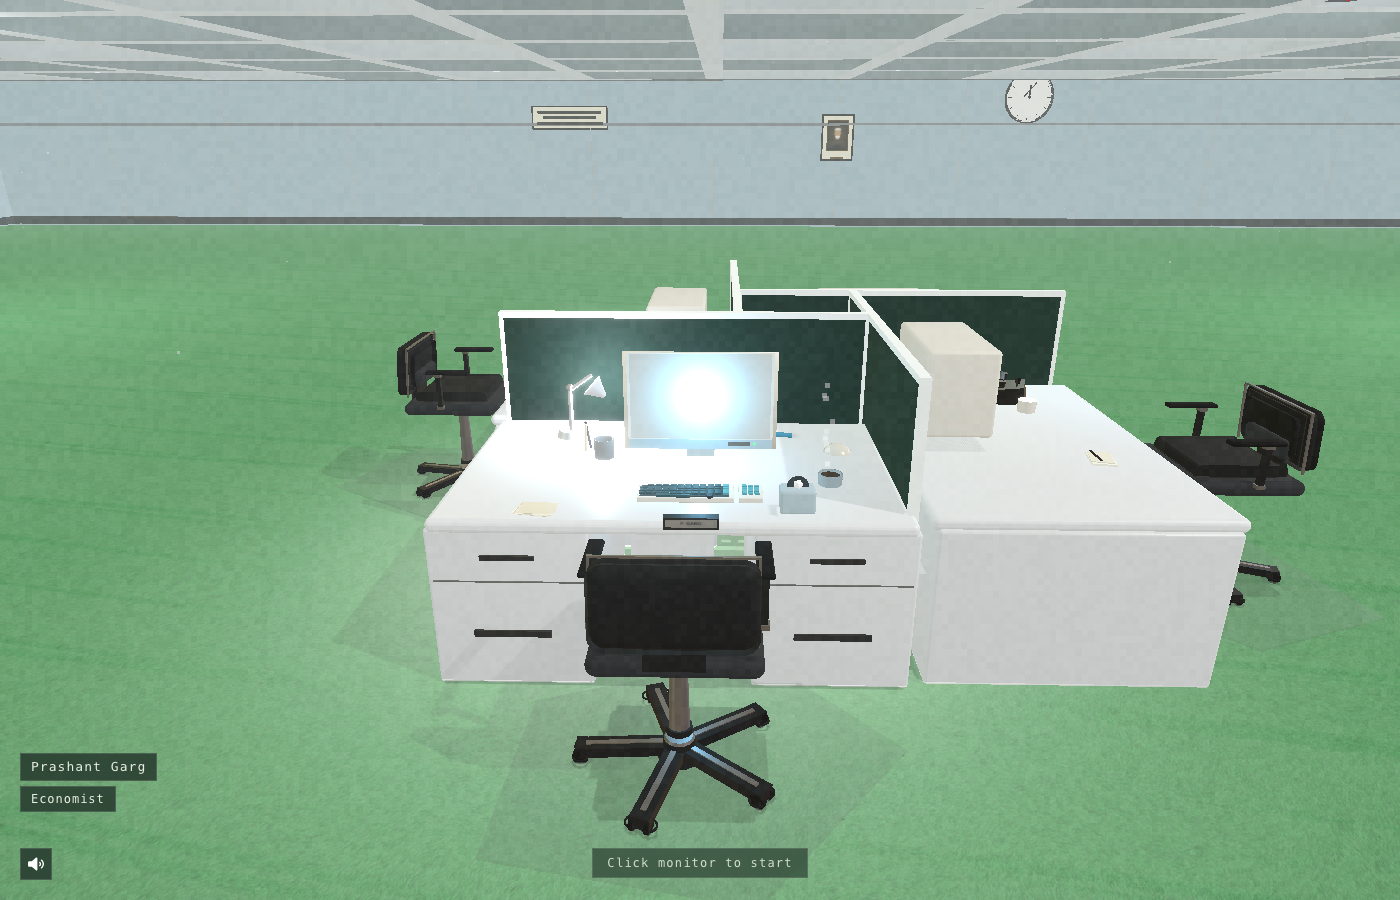
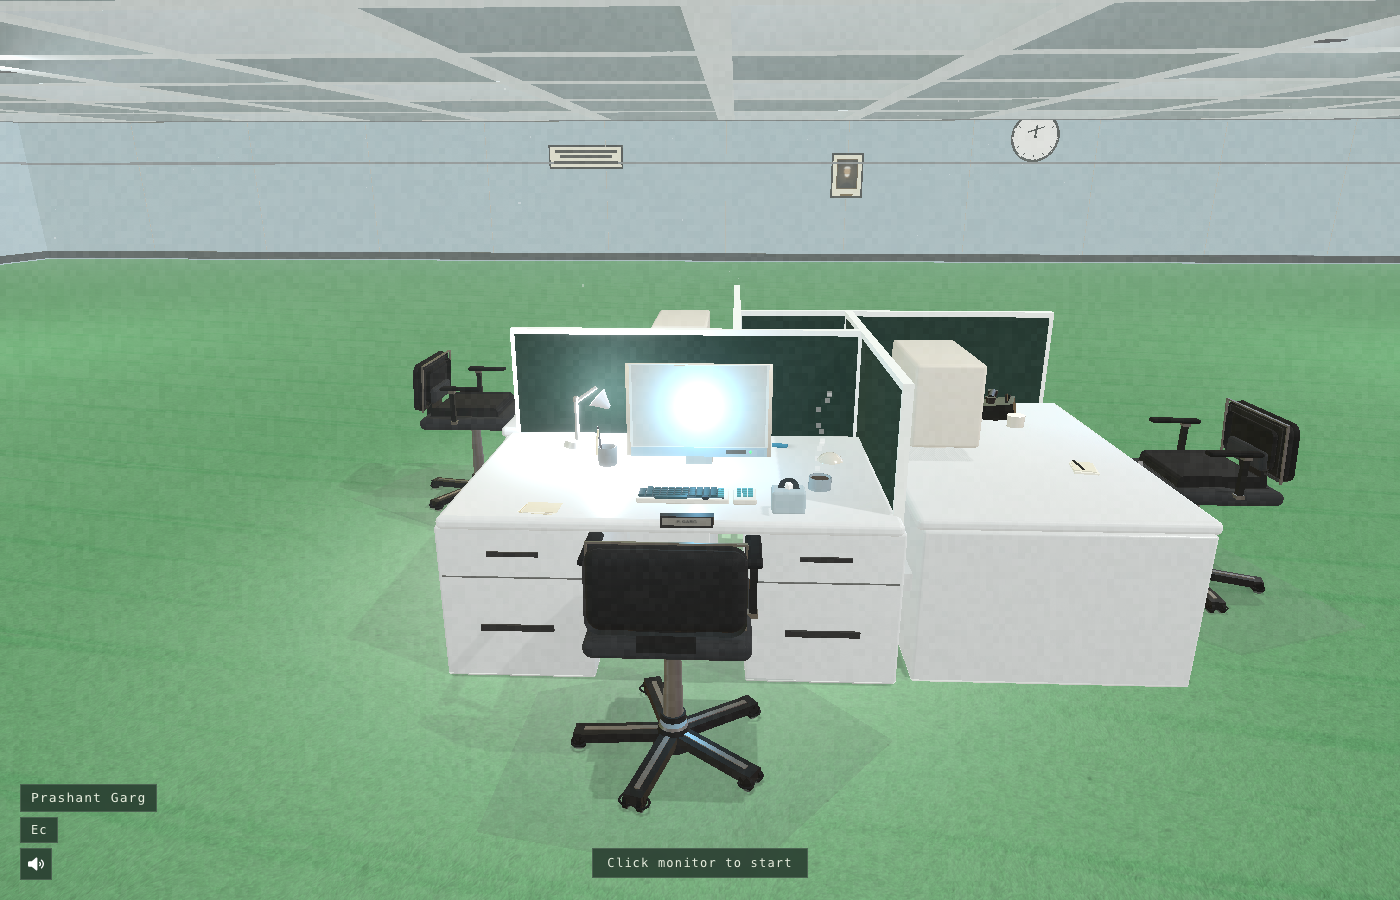
Continue e1af5ca4 session's 5 fixes (cut off by session limit)
Picks up the 09:12 request the prior agent started but couldn't finish:
- #1 Screen glare removed — drop the distracting top-left white radial
  glare over the inner site; keep only the soft corner vignette (the edit
  the prior session made just before the limit; now built).
- #2 Zoom into the monitor — composite framing distance _COMPOSITE_CZ
  0.39 → 0.32 so the screen fills ~85% of the viewport (was ~70%); inner
  site + fonts read clearly, with a clickable room margin still around it.
- #3 Home layout — photo moved to the SIDE and enlarged (110px centred →
  210px left), name/subtitle/bio left-aligned in a column beside it,
  contact strip full-width below; kills the centred-narrow-column
  whitespace. Stacks on <640px.
- #4 Desktop icons bigger — img 32→46px, column 84→104px, label 11→12px,
  SVGs scale to the box; home panel shifted right (118→140px) to clear
  the wider column.
- #5 Floating desk pens fixed — were in a LivingProp whose z-rotation
  pivoted around the world origin, arcing the pens ~8cm out of the cup;
  made static and seated lower so only the tips poke above the rim.

Build clean (Node 22). Verified /os home + icons (photo 210×250, icons
46×46, no errors); #2/#5 are 3D-composite changes to eyeball on the live
deploy (headless GL can't show them).

Changed region(s): [[0.0, 0.0, 1.0, 0.9333], [0.0, 0.8089, 0.1229, 0.9333]]

diff --git a/src/components/InnerDesktop.tsx b/src/components/InnerDesktop.tsx
@@ -253,48 +253,62 @@ const WIN95_STYLE = `
 .win95-home {
   display: flex;
   flex-direction: column;
-  align-items: center;
-  justify-content: center;
+  align-items: stretch;
+  justify-content: flex-start;
   height: 100%;
-  padding: 32px 40px;
+  padding: 30px 38px;
   box-sizing: border-box;
   overflow-y: auto;
+  gap: 18px;
 }
+/* masthead — photo on the SIDE (bigger), text to its right, left-aligned.
+   Fills the panel width so there's no dead whitespace down the sides. */
 .win95-home-header {
-  text-align: center;
-  max-width: 640px;
+  display: flex;
+  flex-direction: row;
+  align-items: flex-start;
+  gap: 30px;
+  text-align: left;
 }
-/* portrait — white-matted print taped to the cream panel */
+.win95-home-headtext { flex: 1; min-width: 0; }
+/* portrait — bigger white-matted print, sits on the left, doesn't shrink */
 .win95-home-photo {
-  width: 110px;
+  width: 210px;
   height: auto;
+  flex-shrink: 0;
   display: block;
-  margin: 0 auto 16px;
-  padding: 5px;
+  padding: 6px;
   background: #fff;
   box-shadow: inset 0 0 0 1px #c3c6ca, 1px 2px 0 rgba(0,0,0,0.25);
 }
-/* prose bio under the masthead (mirrors the old site's bio) */
+/* prose bio (mirrors the old site's bio) — left-aligned, fills column */
 .win95-home-bio {
   font-family: Millennium, 'Times New Roman', serif;
   font-size: 14px;
-  line-height: 1.6;
+  line-height: 1.55;
   color: #333;
-  text-align: center;
-  max-width: 600px;
-  margin: 16px auto 0;
+  text-align: left;
+  max-width: none;
+  margin: 14px 0 0;
 }
 .win95-home-name {
   font-family: 'Cormorant Garamond', Georgia, serif;
-  font-size: 44px;
-  line-height: 1.0;
+  font-size: 52px;
+  line-height: 0.98;
   color: #1a1a1a;
   margin-bottom: 6px;
 }
 .win95-home-subtitle {
   font-family: Millennium, 'Times New Roman', serif;
-  font-size: 15px;
+  font-size: 16px;
   color: #555;
+}
+/* narrow panel (beside the icon column on small monitors) — stack the
+   masthead so the photo doesn't crowd the text */
+@media (max-width: 640px) {
+  .win95-home-header { flex-direction: column; align-items: center; text-align: center; gap: 14px; }
+  .win95-home-photo { width: 150px; }
+  .win95-home-bio { text-align: center; }
 }
 
 /* CONTACT strip — plain old-site text-link row (no buttons, no glyphs) */
@@ -526,8 +540,8 @@ const WIN95_STYLE = `
   position: absolute;
   top: 14px; left: 14px;
   display: grid;
-  grid-template-columns: 84px;
-  gap: 8px 0;
+  grid-template-columns: 104px;   /* wider so the bigger icons fit */
+  gap: 10px 0;
   z-index: 1;       /* below windows but above background */
 }
 .win95-desktop.embedded .win95-icons { top: 8px; left: 8px; }
@@ -537,7 +551,7 @@ const WIN95_STYLE = `
    panel right of the icon column, centred, scrollable if cramped. */
 .win95-desktop-home {
   position: absolute;
-  left: 118px; right: 16px; top: 8px; bottom: 38px;
+  left: 140px; right: 16px; top: 8px; bottom: 38px;
   display: flex;
   align-items: center;
   justify-content: center;
@@ -555,7 +569,7 @@ const WIN95_STYLE = `
               2px 3px 0 rgba(0,0,0,0.28);
 }
 @media (max-width: 700px) {
-  .win95-desktop-home { left: 104px; right: 8px; }
+  .win95-desktop-home { left: 126px; right: 8px; }
   /* shrink the masthead so the panel reads cleanly in the narrow
      column beside the icons */
   .win95-desktop-home .win95-home { padding: 16px 14px 14px; }
@@ -565,20 +579,22 @@ const WIN95_STYLE = `
   display: flex;
   flex-direction: column;
   align-items: center;
-  gap: 4px;
-  padding: 6px 4px 4px;
-  width: 84px;
+  gap: 5px;
+  padding: 7px 4px 5px;
+  width: 104px;
   cursor: pointer;
   user-select: none;
   border: 1px solid transparent;
 }
 .win95-icon-img {
-  width: 32px; height: 32px;
+  width: 46px; height: 46px;
   display: flex; align-items: center; justify-content: center;
 }
+/* the icon SVGs are authored at 32px — let them scale to the larger box */
+.win95-icon-img svg { width: 100%; height: 100%; }
 .win95-icon-label {
   font-family: MSSerif, Arial, sans-serif;
-  font-size: 11px;
+  font-size: 12px;
   color: #fff;
   text-align: center;
   line-height: 1.2;
@@ -2410,13 +2426,15 @@ function HomeContent({ openApp }: { openApp: (id: AppId, fp?: { x: number; y: nu
     <div className="win95-home">
       <div className="win95-home-header">
         <img className="win95-home-photo" src="/photo.jpg" alt="Prashant Garg" />
-        <div className="win95-home-name">Prashant Garg</div>
-        <div className="win95-home-subtitle">
-          Economist · Research Associate at Cambridge
+        <div className="win95-home-headtext">
+          <div className="win95-home-name">Prashant Garg</div>
+          <div className="win95-home-subtitle">
+            Economist · Research Associate at Cambridge
+          </div>
+          <p className="win95-home-bio">{site.bio}</p>
         </div>
-        <p className="win95-home-bio">{site.bio}</p>
-        <ContactStrip />
       </div>
+      <ContactStrip />
     </div>
   );
 }

diff --git a/src/components/Office.tsx b/src/components/Office.tsx
@@ -310,12 +310,13 @@ const CAM_MONITOR_TGT = MONITOR_WORLD.clone();
 const _COMPOSITE_CZ = (() => {
   if (typeof window === 'undefined') return 0.39;
   const v = parseFloat(new URLSearchParams(window.location.search).get('cz') || '');
-  // Frame the monitor as an OBJECT IN THE ROOM (Henry-style) — screen ≈ 70% of
-  // the viewport with a clear room margin all around. The margin is what you
-  // click to step back out (see the wrapper onPointerDown). Pulled back from
-  // 0.23 because the screen plane was widened (0.42→0.62) — at 0.23 the wider
-  // panel would overflow the frame and leave nothing outside to click.
-  return Number.isFinite(v) ? v : 0.39;
+  // Frame the monitor as an OBJECT IN THE ROOM (Henry-style). Pushed IN from
+  // 0.39 → 0.32 so the screen fills ~85% of the viewport (was ~70%) — the
+  // inner site + fonts read clearly — while still leaving a clickable room
+  // margin all around to step back out (see the wrapper onPointerDown). Don't
+  // go below ~0.30 or the widened 0.62 panel overflows and there's nothing
+  // outside to click.
+  return Number.isFinite(v) ? v : 0.32;
 })();
 const CAM_COMPOSITE_POS = new THREE.Vector3(MONITOR_WORLD.x, MONITOR_WORLD.y + 0.02, DESK_Z + _COMPOSITE_CZ);
 const CAM_COMPOSITE_TGT = new THREE.Vector3(MONITOR_WORLD.x, MONITOR_WORLD.y + 0.02, MONITOR_WORLD.z);
@@ -2687,16 +2688,17 @@ function OfficeScene({ phase, onMonitorClick }: {
               style={{ width: '1280px', height: '800px', border: 0, display: 'block', background: '#3e9697' }}
             />
             {/* CRT glass realism (rides the screen's 3D transform; never
-                blocks clicks): scanlines + soft corner vignette + a faint
-                top-left glare so the flat DOM reads as curved glass. */}
+                blocks clicks): scanlines + soft corner vignette only. The
+                top-left white glare was distracting over the content, so it's
+                dropped — the vignette alone still reads as curved glass. */}
             <div style={{
               position: 'absolute', inset: 0, pointerEvents: 'none', mixBlendMode: 'multiply',
               backgroundImage: 'repeating-linear-gradient(to bottom, rgba(0,0,0,0.10) 0px, rgba(0,0,0,0.10) 1px, transparent 1px, transparent 3px)',
             }} />
             <div style={{
               position: 'absolute', inset: 0, pointerEvents: 'none',
-              background: 'radial-gradient(120% 120% at 28% 18%, rgba(255,255,255,0.10) 0%, rgba(255,255,255,0) 42%), radial-gradient(130% 130% at 50% 50%, rgba(0,0,0,0) 60%, rgba(0,0,0,0.28) 100%)',
-              boxShadow: 'inset 0 0 22px 6px rgba(0,0,0,0.30)',
+              background: 'radial-gradient(130% 130% at 50% 50%, rgba(0,0,0,0) 64%, rgba(0,0,0,0.24) 100%)',
+              boxShadow: 'inset 0 0 22px 6px rgba(0,0,0,0.26)',
             }} />
           </div>
         </Html>
@@ -2774,16 +2776,18 @@ function OfficeScene({ phase, onMonitorClick }: {
           <meshStandardMaterial color="#9FA3A0" roughness={0.5} metalness={0.2} side={THREE.DoubleSide} />
         </mesh>
       </group>
-      <LivingProp speed={0.42} ampY={0.0008} ampRot={0.08}>
-        <mesh position={[-0.35, 0.91, DESK_Z - 0.15]} rotation-z={0.08}>
-          <cylinderGeometry args={[0.005, 0.005, 0.13, 16]} />
-          <meshStandardMaterial color={C.graphite} roughness={0.45} />
-        </mesh>
-        <mesh position={[-0.36, 0.90, DESK_Z - 0.14]} rotation-z={-0.12} rotation-x={0.08}>
-          <cylinderGeometry args={[0.005, 0.005, 0.13, 16]} />
-          <meshStandardMaterial color={C.manila} roughness={0.45} />
-        </mesh>
-      </LivingProp>
+      {/* Pens — STATIC, seated in the cup. (Were wrapped in a LivingProp
+          whose z-rotation pivoted around the world origin, so the ~5° sway
+          arced them ~8 cm and they drifted out of the cup.) Lowered so the
+          bottoms rest in the cup and only the tips poke above the rim. */}
+      <mesh position={[-0.35, 0.855, DESK_Z - 0.15]} rotation-z={0.06}>
+        <cylinderGeometry args={[0.005, 0.005, 0.13, 16]} />
+        <meshStandardMaterial color={C.graphite} roughness={0.45} />
+      </mesh>
+      <mesh position={[-0.357, 0.85, DESK_Z - 0.145]} rotation-z={-0.09} rotation-x={0.06}>
+        <cylinderGeometry args={[0.005, 0.005, 0.13, 16]} />
+        <meshStandardMaterial color={C.manila} roughness={0.45} />
+      </mesh>
 
       {/* in-tray — real letter tray with a floor + low walls */}
       <group position={[-0.10, 0.77, DESK_Z - 0.45]}>
